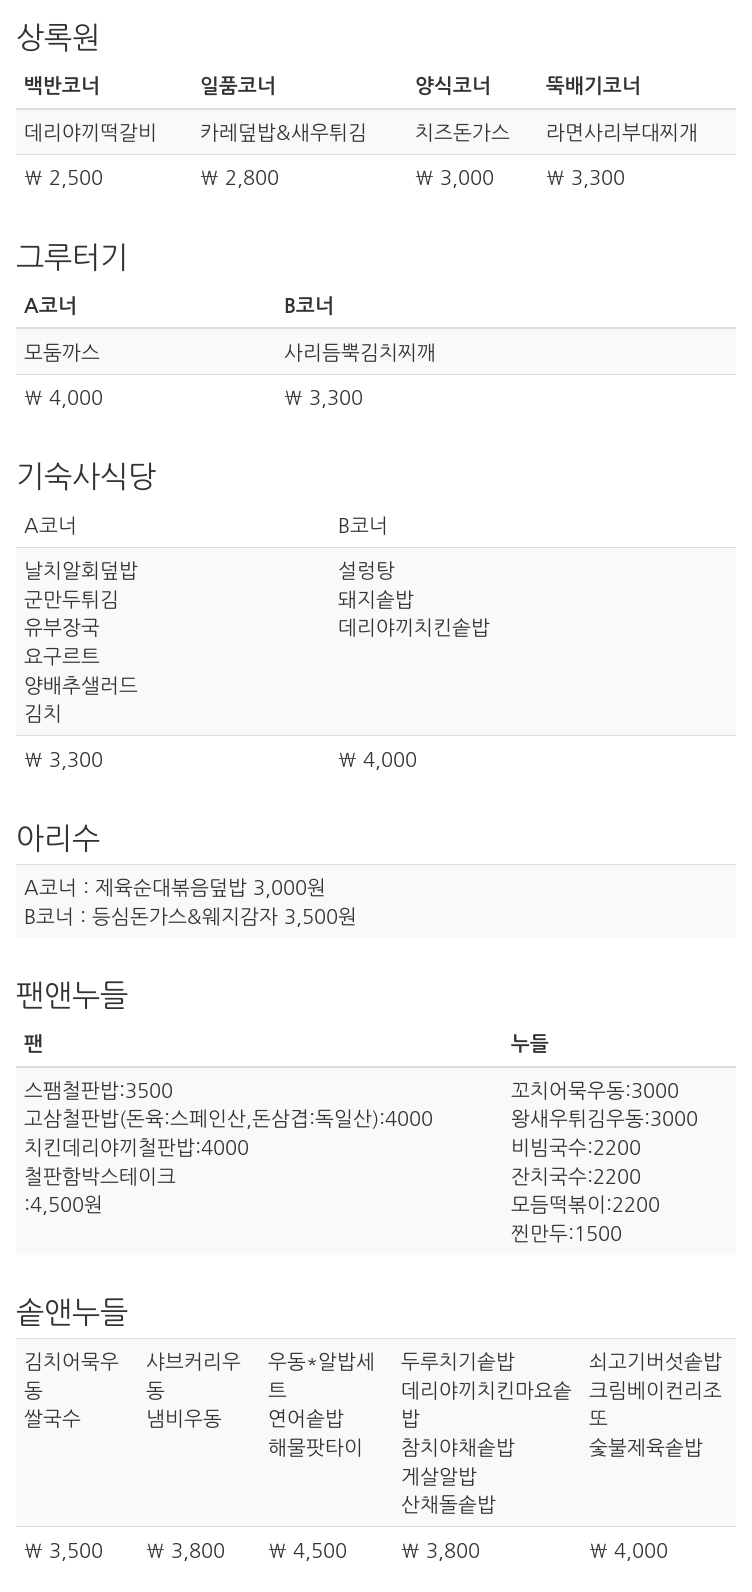
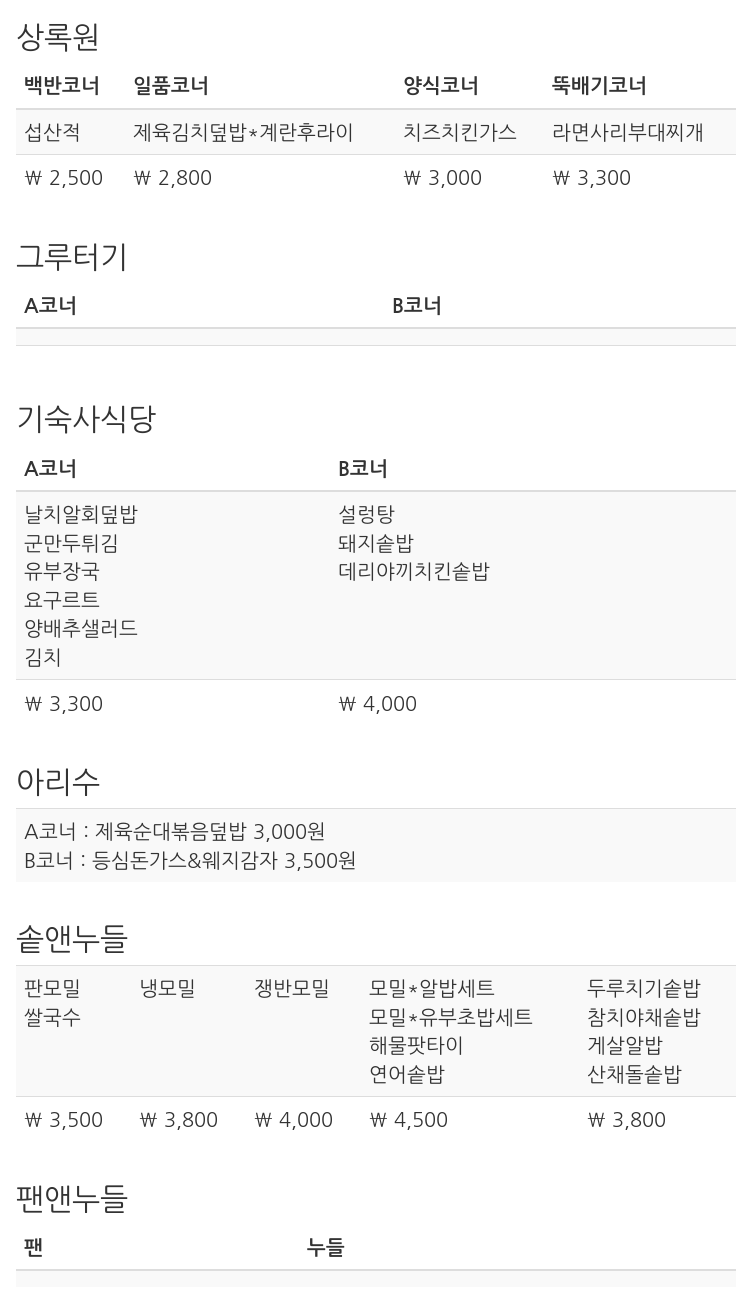
원상복귀

diff --git a/hakSikBot/home/views.py b/hakSikBot/home/views.py
@@ -147,7 +147,6 @@ def get_menu():
     )
     menu_dict.update(sot_dict)
 
-    """
     gru_a_tds = trs[26].find_all('td')
     gru_a_today_spans = gru_a_tds[today_span_num].find_all('span')
     gru_a_menu = gru_a_today_spans[0].text.replace("\r\n", "<br>")
@@ -177,18 +176,17 @@ def get_menu():
         pan_noodle_menu=pan_noodle_menu
     )
     menu_dict.update(pan_dict)
-    """
 
-    arisu_menu = trs[26].find_all('td')[today_span_num].span.text.replace("\r\n", "<br>")
+    arisu_menu = trs[33].find_all('td')[today_span_num].span.text.replace("\r\n", "<br>")
     arisu_dict = dict(arisu_menu=arisu_menu)
     menu_dict.update(arisu_dict)
 
-    dorm_a_tds = trs[31].find_all('td')
+    dorm_a_tds = trs[38].find_all('td')
     dorm_a_today_spans = dorm_a_tds[today_span_num].find_all('span')
     dorm_a_menu = dorm_a_today_spans[0].text.replace("\r\n", "<br>")
     dorm_a_price = dorm_a_today_spans[1].text
 
-    dorm_b_tds = trs[33].find_all('td')
+    dorm_b_tds = trs[40].find_all('td')
     dorm_b_today_spans = dorm_b_tds[today_span_num].find_all('span')
     dorm_b_menu = dorm_b_today_spans[0].text.replace("\r\n", "<br>")
     dorm_b_price = dorm_b_today_spans[1].text
@@ -292,7 +290,6 @@ def get_dinner_menu():
     )
     menu_dict.update(sot_dict)
 
-    """
     gru_a_tds = trs[27].find_all('td')
     gru_a_today_spans = gru_a_tds[today_span_num].find_all('span')
     gru_a_menu = gru_a_today_spans[0].text.replace("\r\n", "<br>")
@@ -322,9 +319,8 @@ def get_dinner_menu():
         pan_noodle_menu=pan_noodle_menu
     )
     menu_dict.update(pan_dict)
-    """
 
-    arisu_tds = trs[27].find_all('td')
+    arisu_tds = trs[34].find_all('td')
     arisu_today_spans = arisu_tds[today_span_num].find_all('span')
     arisu_menu = arisu_today_spans[0].text.replace("\r\n", "<br>")
     arisu_price = arisu_today_spans[1].text
@@ -332,7 +328,7 @@ def get_dinner_menu():
                       arisu_price=arisu_price)
     menu_dict.update(arisu_dict)
 
-    dorm_a_tds = trs[32].find_all('td')
+    dorm_a_tds = trs[39].find_all('td')
     dorm_a_today_spans = dorm_a_tds[today_span_num].find_all('span')
     dorm_a_menu = dorm_a_today_spans[0].text.replace("\r\n", "<br>")
     dorm_a_price = dorm_a_today_spans[1].text
@@ -341,6 +337,6 @@ def get_dinner_menu():
         dorm_a_menu=dorm_a_menu,
         dorm_a_price=dorm_a_price
     )
-    menu_dict.update(dorm_dict)
+    menu_dict.update(dorm_dict)    
 
     return (menu_dict)
